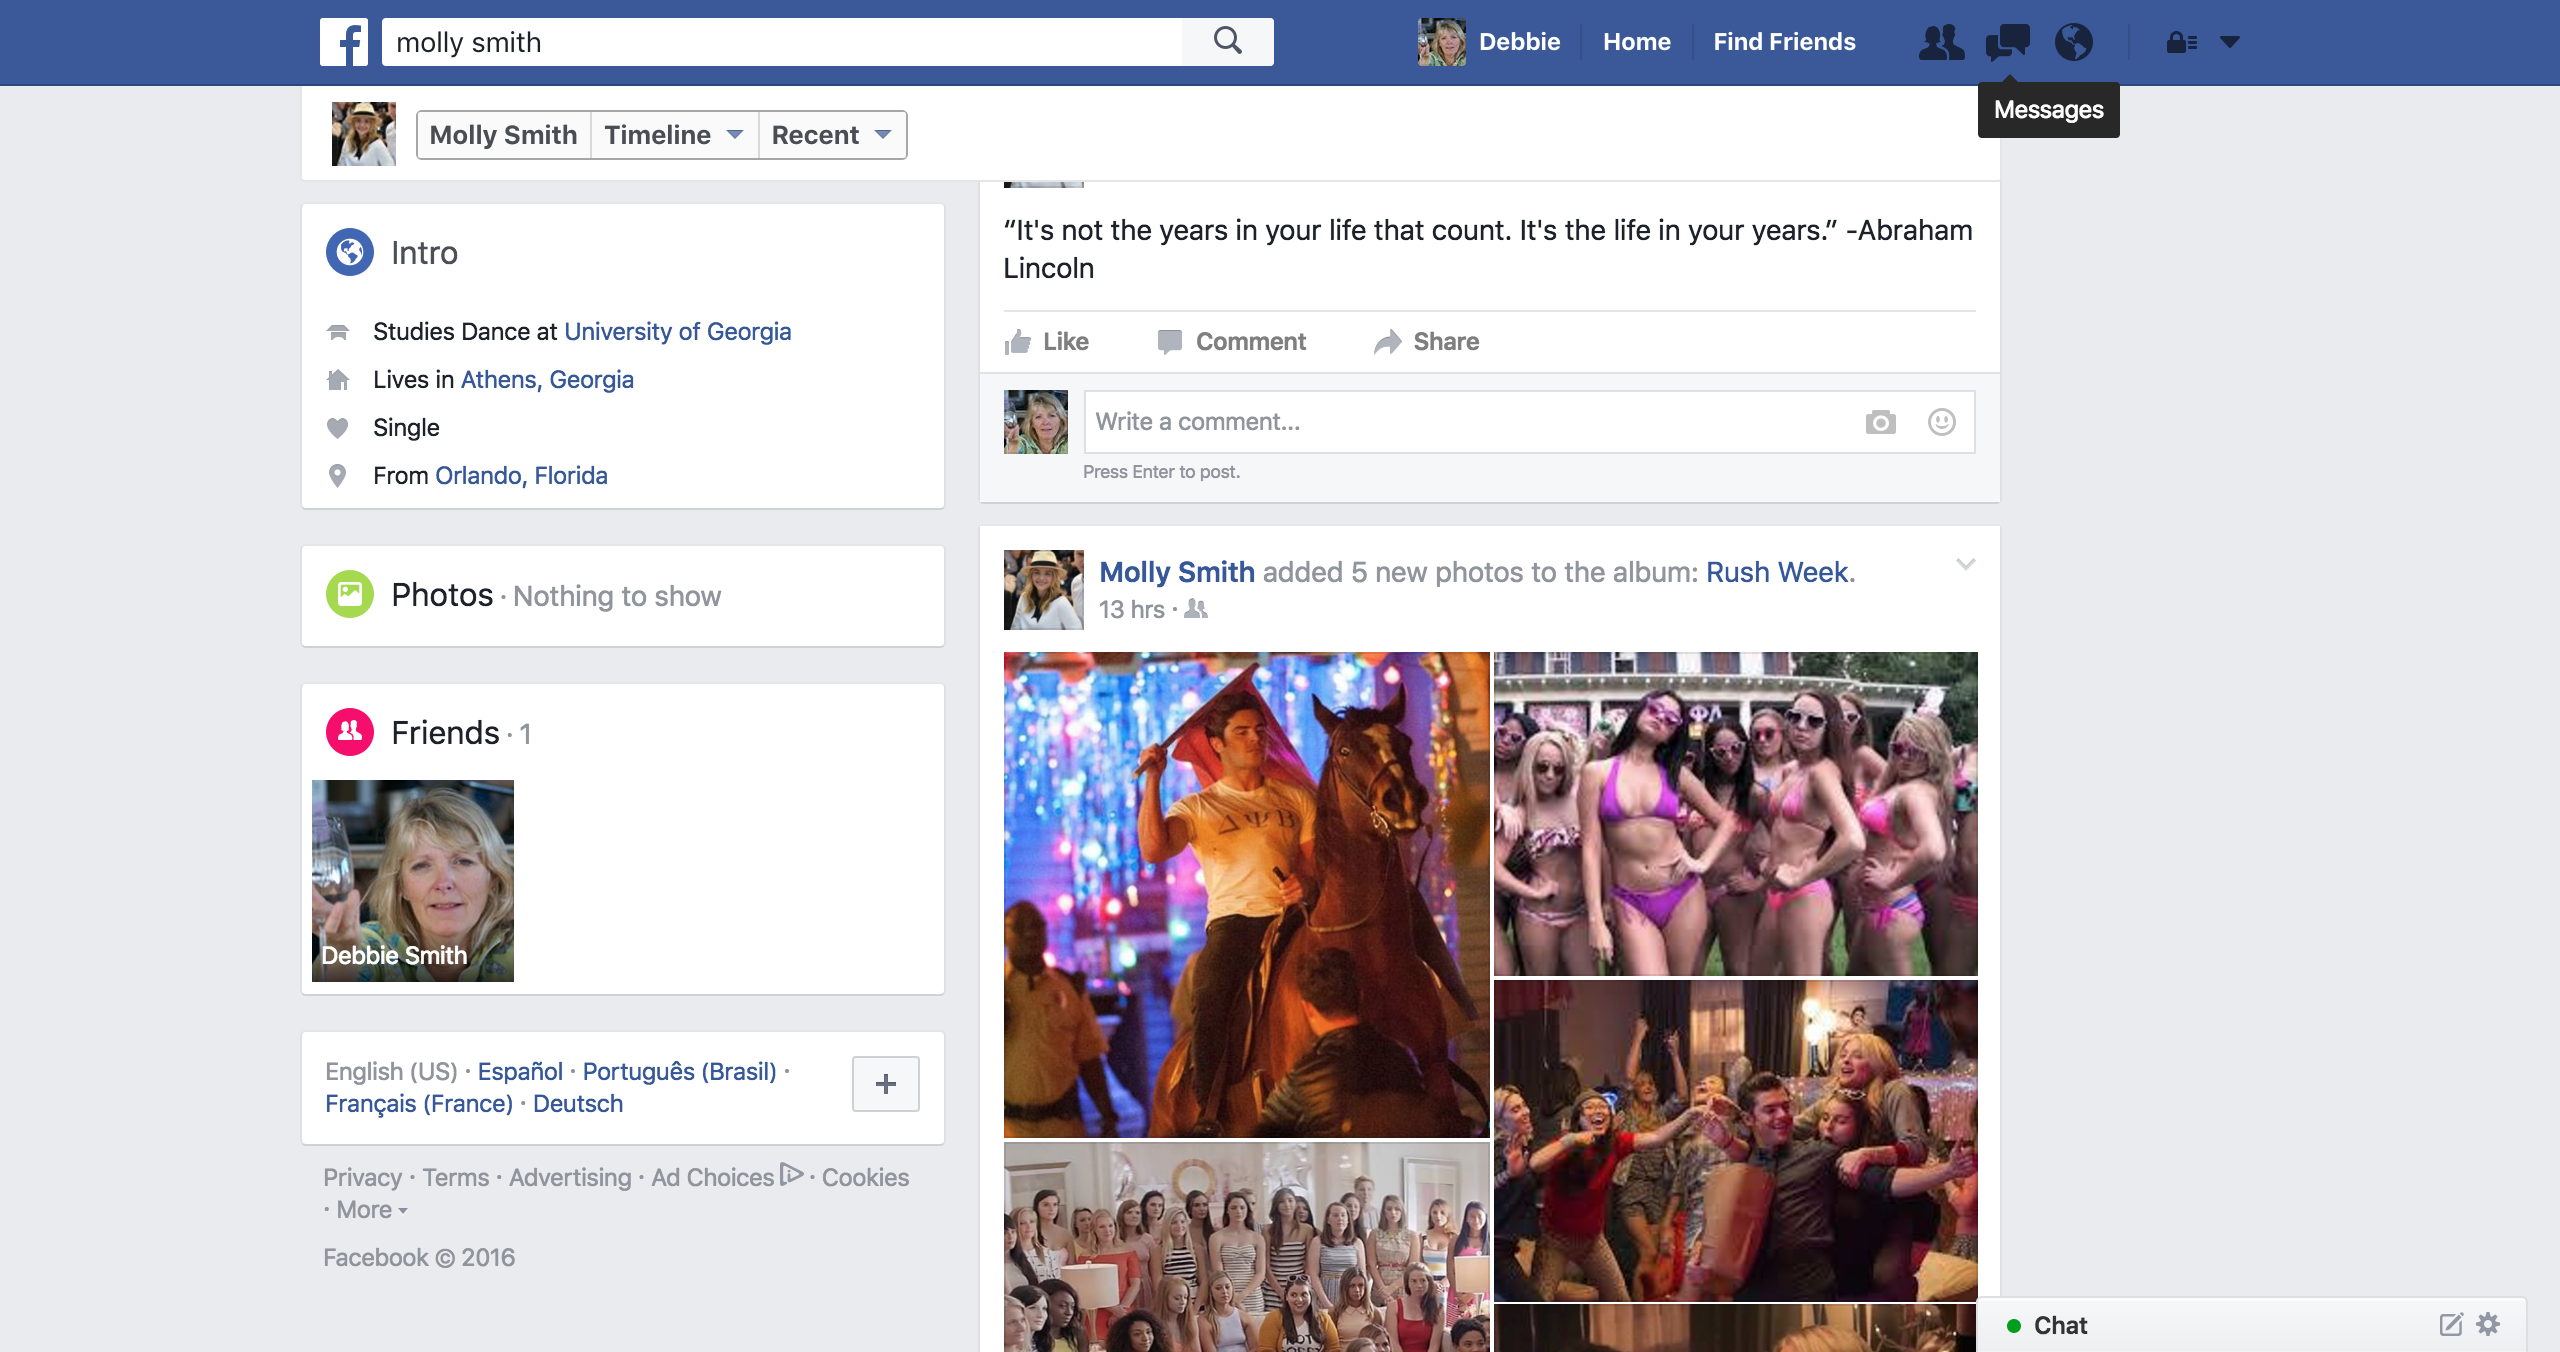
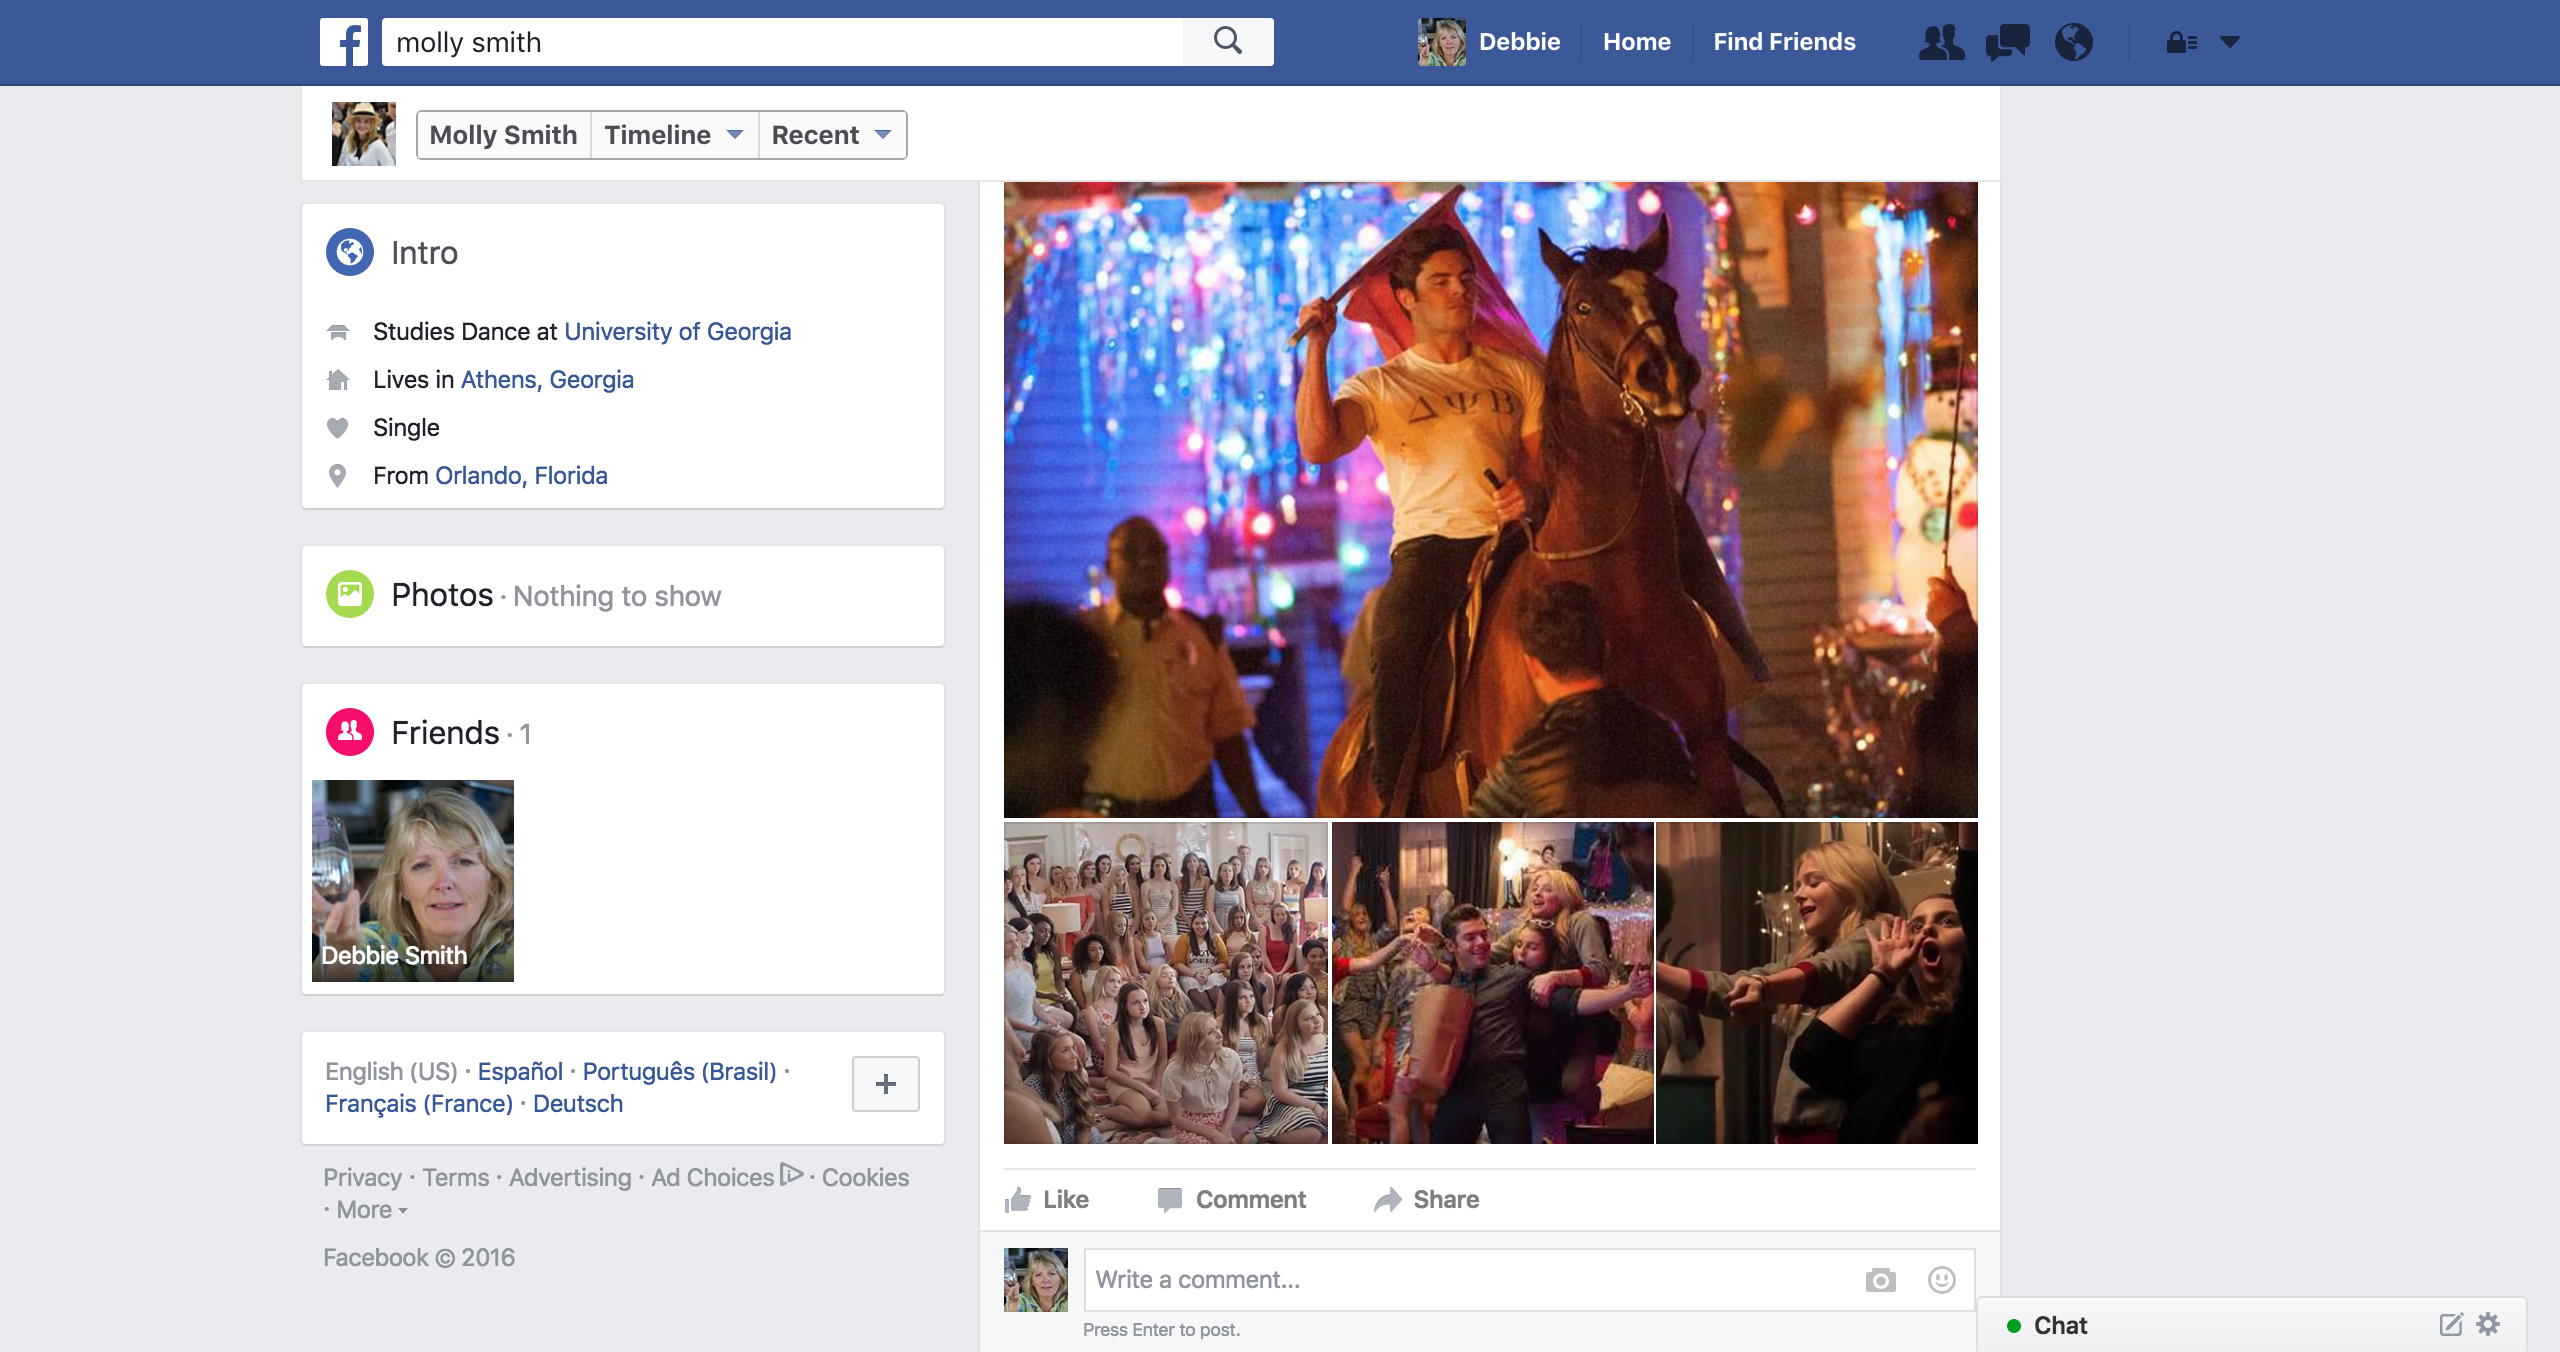
add scroll

diff --git a/app/assets/javascripts/controllers/app.controller.js b/app/assets/javascripts/controllers/app.controller.js
@@ -5,15 +5,14 @@
     .module('app')
     .controller('AppController', AppController);
 
-  AppController.$inject = ['$http'];
+  AppController.$inject = ['$http', '$location'];
 
-  function AppController($http) {
-    var self = this;
+  function AppController($http, $location) {
 
-    self.sayHello = sayHello;
-
-    function sayHello() {
-      return 'Hello, World!';
+    this.scrollTo = function(id) {
+      document.getElementById(id).scrollIntoView({
+        behavior: 'smooth'
+      })
     }
   };
 })();

diff --git a/app/assets/javascripts/templates/profile.html b/app/assets/javascripts/templates/profile.html
@@ -1,2 +1,2 @@
-<div class="child-fb" id="child-one"></div>
-<div class="child-fb" id="child-two"></div>
+<div class="child-fb" id="child-one" ng-click="vm.scrollTo('child-two')"></div>
+<div class="child-fb" id="child-two" ng-click="vm.scrollTo('child-one')"></div>

diff --git a/app/assets/stylesheets/partials/_nav.scss b/app/assets/stylesheets/partials/_nav.scss
@@ -9,8 +9,10 @@ nav {
   font-weight: bold;
   justify-content: space-between;
   height: 70px;
+  top: 0;
+  position: fixed;
+  width: 100vw;
   padding: 0 2%;
-
   h5 {
     flex-grow: 1;
     position: relative;

diff --git a/app/assets/stylesheets/partials/_variables.scss b/app/assets/stylesheets/partials/_variables.scss
@@ -1,3 +1,10 @@
 $lightBlue: #46C2F1;
 $mediumBlue: #0186DA;
 $darkBlue: #39579A;
+
+html {
+  box-sizing: border-box;
+}
+*, *:before, *:after {
+  box-sizing: inherit;
+}

diff --git a/app/assets/javascripts/app.module.js b/app/assets/javascripts/app.module.js
@@ -10,5 +10,5 @@
       }).state('profile', {
         templateUrl: 'profile.html'
       });
-    });
+    })
 })();
